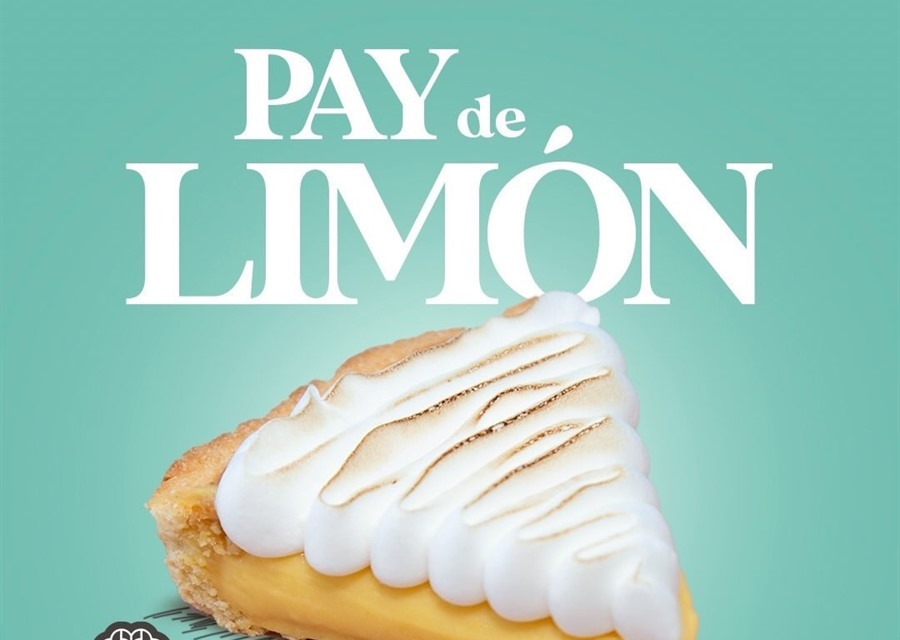
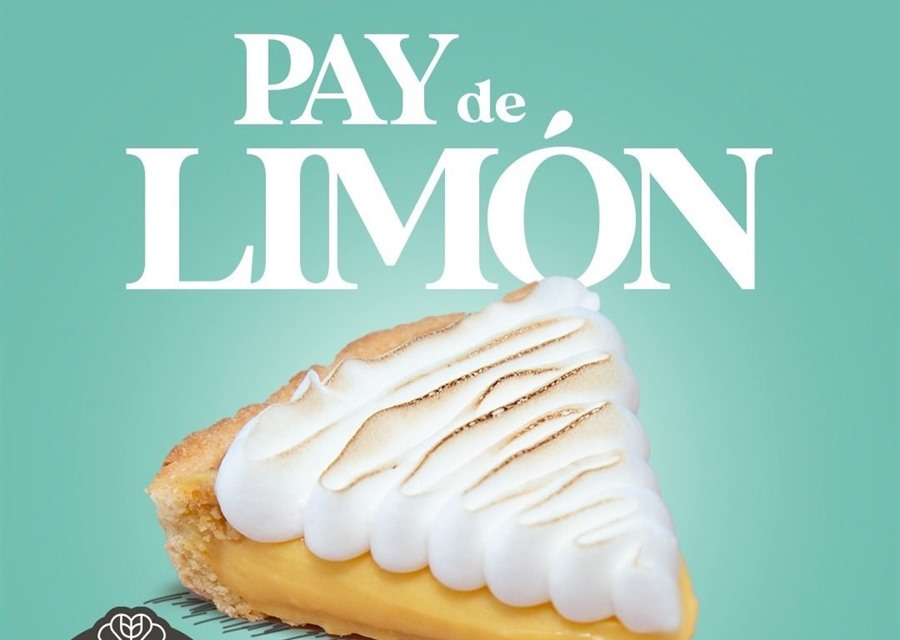
Ajustar encuadre visible de rebanadas Pande

diff --git a/public/pande/js/app.js b/public/pande/js/app.js
@@ -1,7 +1,7 @@
 const SCRIPT_URL = "https://script.google.com/macros/s/AKfycbwGxnv1CbQvLTF9fnQwa3kg6aICwHLWM4n05kGT6x5P7Osjt16-BIe2_AXZ0L-5MmR0/exec";
 
 const FRONTEND_KEY = "PANDE_PUBLIC_2026";
-const IMAGE_VERSION = "20260624b";
+const IMAGE_VERSION = "20260624c";
 
 const PRODUCT_IMAGE_OVERRIDES = {
   T09: "./img/panque-de-naranja-cero-azucar.jpg"
